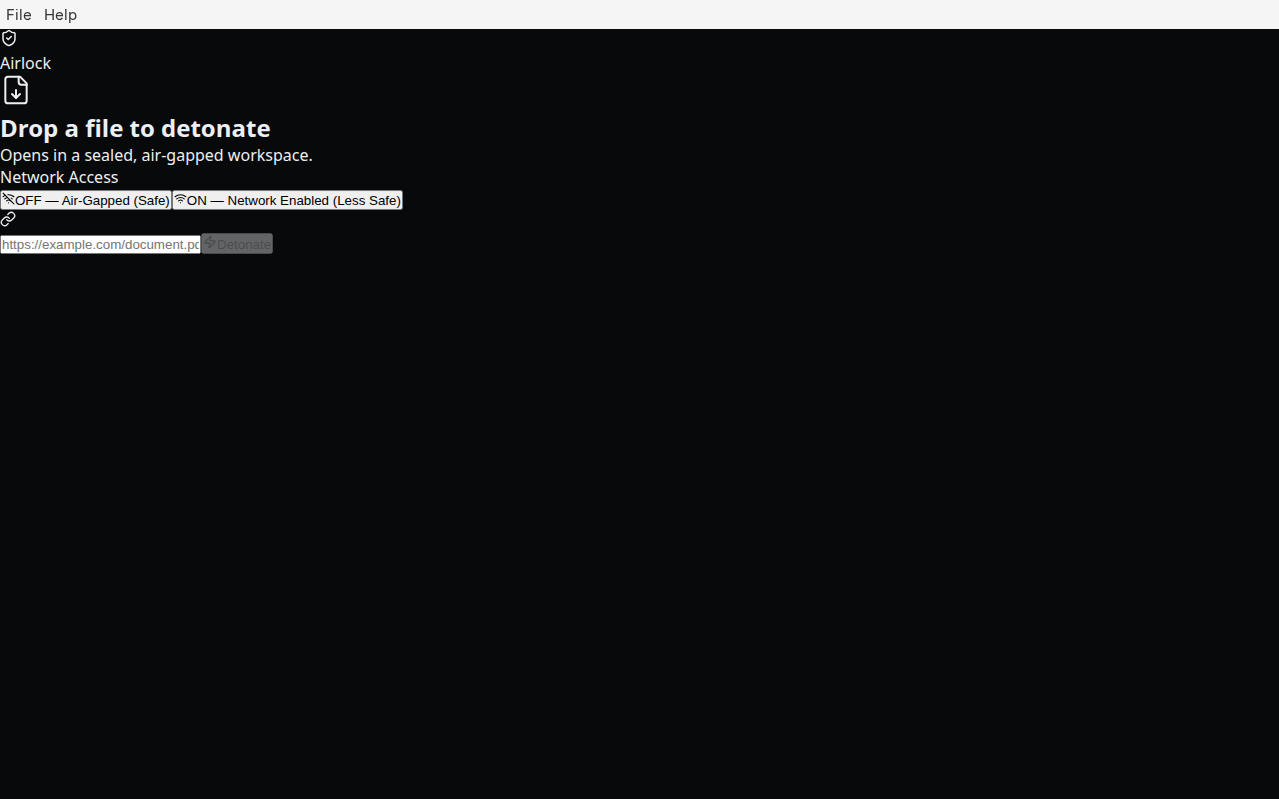
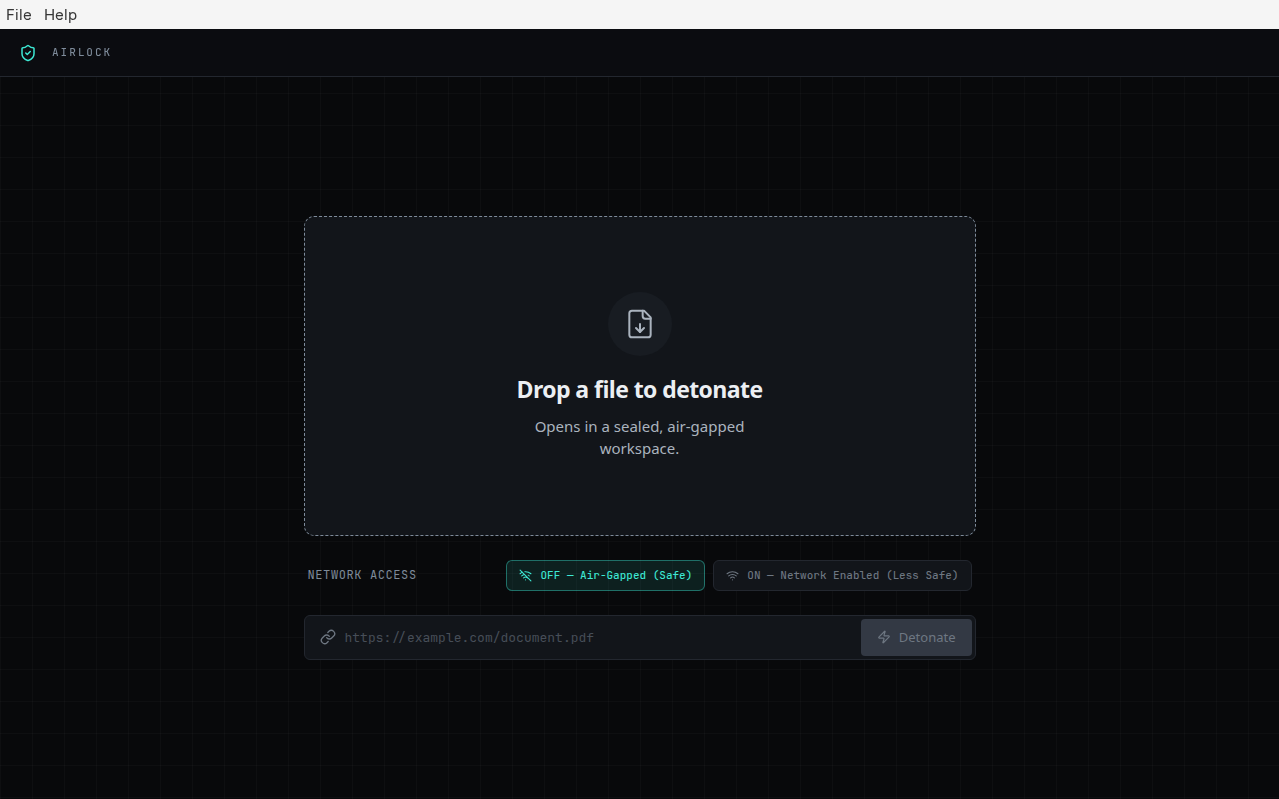
fix(ui): load Tailwind in production build and tidy session logs
Import renderer index.css so packaged Electron loads compiled Tailwind.
Dedupe first-run setup log lines, guard concurrent session starts, and
parse CLI file paths reliably. Re-capture README demo assets from the
production renderer build.

diff --git a/packages/ui/src/renderer/AirlockApp.tsx b/packages/ui/src/renderer/AirlockApp.tsx
@@ -1,4 +1,4 @@
-import React, { useState, useCallback, useEffect } from 'react';
+import React, { useState, useCallback, useEffect, useRef } from 'react';
 import { motion, AnimatePresence } from 'framer-motion';
 import {
   ShieldCheck,
@@ -67,11 +67,18 @@ export default function AirlockApp() {
 
   const firstRun = useFirstRunSetup(ipc, readiness, handleReadinessRefresh);
 
+  const sessionStartInFlight = useRef(false);
+  const ignitionIntervalRef = useRef<ReturnType<typeof setInterval> | null>(null);
+
   const viewState = viewStateFromSession(session);
   const canStartSession = (readiness?.canStartSession ?? false) && !firstRun.visible;
 
   const startIgnitionLogs = useCallback(
     (inputType: 'file' | 'url' = 'file') => {
+      if (ignitionIntervalRef.current) {
+        clearInterval(ignitionIntervalRef.current);
+        ignitionIntervalRef.current = null;
+      }
       setLogs([]);
       setError(null);
 
@@ -104,10 +111,15 @@ export default function AirlockApp() {
           step++;
         } else {
           clearInterval(interval);
+          ignitionIntervalRef.current = null;
         }
       }, 400);
+      ignitionIntervalRef.current = interval;
 
-      return () => clearInterval(interval);
+      return () => {
+        clearInterval(interval);
+        ignitionIntervalRef.current = null;
+      };
     },
     [networkEnabled],
   );
@@ -116,6 +128,10 @@ export default function AirlockApp() {
     async (input: AirlockInput) => {
       if (!ipc) {
         setError('IPC not available');
+        return;
+      }
+
+      if (sessionStartInFlight.current) {
         return;
       }
 
@@ -128,6 +144,7 @@ export default function AirlockApp() {
         return;
       }
 
+      sessionStartInFlight.current = true;
       const cleanup = startIgnitionLogs(input.type);
 
       setSession({
@@ -149,9 +166,6 @@ export default function AirlockApp() {
           setError('Session failed to start');
         } else if (result.status === 'running') {
           setLogs((prev) => [...prev, `[sys] Container sealed — ${result.sessionId.slice(0, 12)}`]);
-          if (result.vncUrl) {
-            setLogs((prev) => [...prev, `[vnc] Stream at ${result.vncUrl}`]);
-          }
         }
       } catch (err: unknown) {
         const message = err instanceof Error ? err.message : String(err);
@@ -160,6 +174,7 @@ export default function AirlockApp() {
         setLogs((prev) => [...prev, `[err] ${message}`]);
       } finally {
         cleanup();
+        sessionStartInFlight.current = false;
       }
     },
     [startIgnitionLogs, canStartSession, readiness],
@@ -248,7 +263,8 @@ export default function AirlockApp() {
     const unsubStarted = ipc.onSessionStarted((event: SessionStartedEvent) => {
       setSession(event.session);
       if (event.session.status === 'running' && event.session.vncUrl) {
-        setLogs((prev) => [...prev, `[vnc] Stream at ${event.session.vncUrl}`]);
+        const streamLine = `[vnc] Stream at ${event.session.vncUrl}`;
+        setLogs((prev) => (prev.includes(streamLine) ? prev : [...prev, streamLine]));
       }
     });
 

diff --git a/packages/ui/src/main/index.ts b/packages/ui/src/main/index.ts
@@ -9,6 +9,7 @@
  */
 
 import { app, BrowserWindow, dialog, ipcMain, Menu, session, shell } from 'electron';
+import { existsSync } from 'node:fs';
 import { writeFile } from 'node:fs/promises';
 import * as path from 'node:path';
 import { fileURLToPath } from 'node:url';
@@ -77,6 +78,40 @@ function logSessionEvent(
   });
 }
 
+function pickOpenablePath(argv: string[]): string | undefined {
+  const ignoredSuffixes = ['electron', 'airlock', 'Airlock'];
+
+  return [...argv].reverse().find((arg) => {
+    if (!arg || arg.startsWith('-') || arg === '.') {
+      return false;
+    }
+    if (arg.includes('node_modules/electron') || arg.includes('/.pnpm/')) {
+      return false;
+    }
+    if (ignoredSuffixes.some((suffix) => arg.endsWith(suffix))) {
+      return false;
+    }
+    if (arg.startsWith('http://') || arg.startsWith('https://')) {
+      return false;
+    }
+    return existsSync(arg);
+  });
+}
+
+function deliverOpenFileToRenderer(filePath: string): void {
+  if (!mainWindow) {
+    return;
+  }
+  const send = () => {
+    mainWindow?.webContents.send('airlock:open-file', filePath);
+  };
+  if (mainWindow.webContents.isLoading()) {
+    mainWindow.webContents.once('did-finish-load', send);
+  } else {
+    send();
+  }
+}
+
 function getAppIconPath(): string {
   if (app.isPackaged) {
     return path.join(process.resourcesPath, 'icons', 'icon.png');
@@ -86,6 +121,11 @@ function getAppIconPath(): string {
 }
 
 configureSandboxImage({ appVersion: VERSION, ghcrOwner: 'lukeholmes' });
+
+if (process.env.AIRLOCK_HEADLESS_GL === '1') {
+  app.commandLine.appendSwitch('use-gl', 'swiftshader');
+  app.commandLine.appendSwitch('disable-gpu-sandbox');
+}
 
 let mainWindow: BrowserWindow | null = null;
 
@@ -441,6 +481,11 @@ app.whenReady().then(async () => {
   mainWindow = createMainWindow();
   void ensureReadinessNotice();
 
+  const cliFile = pickOpenablePath(process.argv);
+  if (cliFile) {
+    deliverOpenFileToRenderer(cliFile);
+  }
+
   app.on('activate', () => {
     if (BrowserWindow.getAllWindows().length === 0) {
       mainWindow = createMainWindow();
@@ -506,9 +551,9 @@ if (!gotTheLock) {
       if (mainWindow.isMinimized()) mainWindow.restore();
       mainWindow.focus();
 
-      const fileOrUrl = argv.find((arg) => !arg.startsWith('--'));
-      if (fileOrUrl && !fileOrUrl.startsWith('http://') && !fileOrUrl.startsWith('https://')) {
-        mainWindow.webContents.send('airlock:open-file', fileOrUrl);
+      const fileOrUrl = pickOpenablePath(argv);
+      if (fileOrUrl) {
+        deliverOpenFileToRenderer(fileOrUrl);
       }
     }
   });

diff --git a/packages/ui/src/renderer/useFirstRunSetup.ts b/packages/ui/src/renderer/useFirstRunSetup.ts
@@ -41,9 +41,20 @@ export function useFirstRunSetup(
   const appendProgress = useCallback((event: SandboxSetupProgress) => {
     setProgress((previous) => {
       if (shouldAppendProgressDetail(previous, event) && event.detail) {
-        setLogLines((lines) => [...lines.slice(-199), event.detail!]);
+        setLogLines((lines) => {
+          const next = event.detail!;
+          if (lines.length > 0 && lines[lines.length - 1] === next) {
+            return lines;
+          }
+          return [...lines.slice(-199), next];
+        });
       } else if (!previous && event.message) {
-        setLogLines((lines) => [...lines, event.message]);
+        setLogLines((lines) => {
+          if (lines.length > 0 && lines[lines.length - 1] === event.message) {
+            return lines;
+          }
+          return [...lines, event.message];
+        });
       }
       return event;
     });

diff --git a/packages/ui/src/renderer/index.css b/packages/ui/src/renderer/index.css
@@ -2,9 +2,6 @@
 @tailwind components;
 @tailwind utilities;
 
-/* Import JetBrains Mono for monospace typography */
-@import url('https://fonts.googleapis.com/css2?family=JetBrains+Mono:wght@400;500;600&display=swap');
-
 /* Custom utilities for Airlock design system */
 @layer utilities {
   .window-drag {

diff --git a/packages/ui/src/renderer/main.tsx b/packages/ui/src/renderer/main.tsx
@@ -6,6 +6,8 @@
 
 import React from 'react';
 import ReactDOM from 'react-dom/client';
+
+import './index.css';
 import AirlockApp from './AirlockApp';
 
 // Check for IPC availability

diff --git a/docs/CLEAN_MACHINE_TEST.md b/docs/CLEAN_MACHINE_TEST.md
@@ -60,7 +60,9 @@ No isolation settings were weakened to pass tests.
 
 ### Fixed in this PR (small)
 
-1. **Bundled sandbox build failed without BuildKit** — `ensureSandboxImageReady` used dockerode’s legacy `buildImage`, which cannot parse heredoc `COPY` or set `TARGETARCH`. **Fix:** prefer `docker buildx build --load` with `TARGETARCH` build-arg; default `ARG TARGETARCH=amd64` in Dockerfile; `pnpm sandbox:build` uses buildx.
+1. **Production UI shipped without Tailwind/CSS** — `packages/ui/src/renderer/main.tsx` never imported `./index.css`, so `pnpm build` + `electron .` rendered unstyled HTML (plain fonts, broken layout). Fixed by importing the stylesheet; Vite now emits `assets/main-*.css` linked from `dist/renderer/index.html`.
+2. **Duplicate ignition log lines** — overlapping session start (second-instance argv picked the Electron binary path; duplicate IPC log appends). Fixed with `sessionStartInFlight`, deduped setup log lines, and safer `pickOpenablePath()` for CLI/second-instance file opens.
+3. **Bundled sandbox build failed without BuildKit** — `ensureSandboxImageReady` used dockerode’s legacy `buildImage`, which cannot parse heredoc `COPY` or set `TARGETARCH`. **Fix:** prefer `docker buildx build --load` with `TARGETARCH` build-arg; default `ARG TARGETARCH=amd64` in Dockerfile; `pnpm sandbox:build` uses buildx.
 2. **`pnpm sandbox:build` on legacy docker** — fails without buildx (documented; CI already uses Buildx).
 
 ### Not fixed (larger / follow-up)

diff --git a/README.md b/README.md
@@ -18,7 +18,7 @@ Airlock is a hard fork of the OpenClaw monorepo architecture, entirely gutted of
 |---|---|
 | First-run sandbox setup | ![Preparing your sandbox](docs/assets/first-run-progress.png) |
 | Session starting (hardened workspace) | ![Orchestrating isolation](docs/assets/main-session.png) |
-| Session analysis & export | ![Session analysis](docs/assets/session-export.png) |
+| Session ended (analyze & export) | ![Session analysis](docs/assets/session-export.png) |
 | Ready to detonate | ![Idle drop zone](docs/assets/cleanup-idle.png) |
 
 **Short demo (drop → sandbox → destroy → analysis):**
